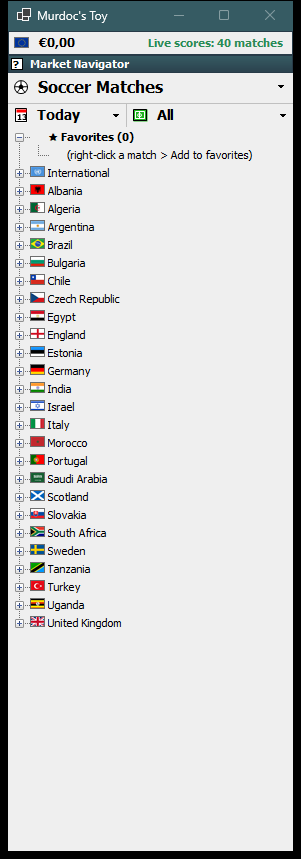
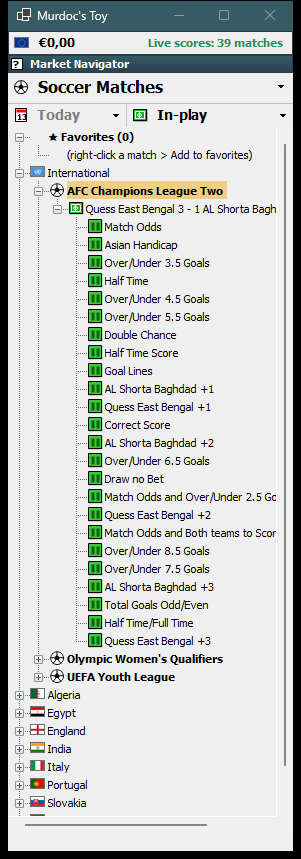
Classic: In-play moved to the All/In-play/Favorites dropdown and is the default; v0.4.2

diff --git a/src/MurdocsToy.Desktop/ClassicMainForm.cs b/src/MurdocsToy.Desktop/ClassicMainForm.cs
@@ -9,7 +9,8 @@ namespace MurdocsToy.Desktop;
 /// </summary>
 sealed class ClassicMainForm : Form
 {
-    enum When { Today, Tomorrow, Next2Days, InPlay }
+    enum When { Today, Tomorrow, Next2Days }
+    enum Scope { All, InPlay, Favorites }
 
     readonly AppHost _host;
     readonly BetfairClient _bf;
@@ -33,7 +34,7 @@ sealed class ClassicMainForm : Form
     Dictionary<string, string> _countryNames = new();
     Dictionary<string, string> _iso3 = new();
     When _when = When.Today;
-    bool _favoritesOnly;
+    Scope _scope = Scope.InPlay;     // opens on what is live right now
     string _balance = "", _currencyFlag = "";
     string _favSig = "";
     Font? _bold;
@@ -156,11 +157,11 @@ sealed class ClassicMainForm : Form
         using var edge = new Pen(Color.FromArgb(0xC0, 0xC0, 0xC0));
         g.DrawLine(edge, 0, 0, w, 0); g.DrawLine(edge, _scopeRect.X, 0, _scopeRect.X, _filters.Height);
         g.DrawImage(ClIcons.Calendar, 5, 4);
-        var whenText = _when switch { When.Today => "Today", When.Tomorrow => "Tomorrow", When.Next2Days => "2 days", _ => "In-play" };
-        TextRenderer.DrawText(g, whenText, Cl.Filter, new Point(26, 3), Color.Black);
+        var whenText = _when switch { When.Today => "Today", When.Tomorrow => "Tomorrow", _ => "2 days" };
+        TextRenderer.DrawText(g, whenText, Cl.Filter, new Point(26, 3), _scope == Scope.InPlay ? Color.Gray : Color.Black);   // the date filter does not apply to in-play
         Arrow(g, _whenRect.Right - 10, 12);
         g.DrawImage(ClIcons.Pitch, _scopeRect.X + 6, 4);
-        TextRenderer.DrawText(g, _favoritesOnly ? "Favorites" : "All", Cl.Filter, new Point(_scopeRect.X + 28, 3), Color.Black);
+        TextRenderer.DrawText(g, _scope switch { Scope.InPlay => "In-play", Scope.Favorites => "Favorites", _ => "All" }, Cl.Filter, new Point(_scopeRect.X + 28, 3), Color.Black);
         Arrow(g, w - 10, 12);
     }
 
@@ -169,20 +170,20 @@ sealed class ClassicMainForm : Form
         var menu = new ContextMenuStrip();
         if (_whenRect.Contains(e.Location))
         {
-            foreach (var (w, label) in new[] { (When.Today, "Today"), (When.Tomorrow, "Tomorrow"), (When.Next2Days, "Next 2 days"), (When.InPlay, "In-play") })
+            foreach (var (w, label) in new[] { (When.Today, "Today"), (When.Tomorrow, "Tomorrow"), (When.Next2Days, "Next 2 days") })
             {
                 var item = new ToolStripMenuItem(label) { Checked = _when == w };
-                item.Click += async (_, _) => { _when = w; _filters.Invalidate(); await LoadTree(); };
+                item.Click += async (_, _) => { _when = w; if (_scope == Scope.InPlay) _scope = Scope.All; _filters.Invalidate(); await LoadTree(); };
                 menu.Items.Add(item);
             }
             menu.Show(_filters, new Point(_whenRect.X, _whenRect.Bottom));
         }
         else if (_scopeRect.Contains(e.Location))
         {
-            foreach (var (fav, label) in new[] { (false, "All"), (true, "Favorites") })
+            foreach (var (sc, label) in new[] { (Scope.All, "All"), (Scope.InPlay, "In-play"), (Scope.Favorites, "Favorites") })
             {
-                var item = new ToolStripMenuItem(label) { Checked = _favoritesOnly == fav };
-                item.Click += async (_, _) => { _favoritesOnly = fav; _filters.Invalidate(); await LoadTree(); };
+                var item = new ToolStripMenuItem(label) { Checked = _scope == sc };
+                item.Click += async (_, _) => { _scope = sc; _filters.Invalidate(); await LoadTree(); };
                 menu.Items.Add(item);
             }
             menu.Show(_filters, new Point(_scopeRect.X, _scopeRect.Bottom));
@@ -300,10 +301,10 @@ sealed class ClassicMainForm : Form
         {
             _status.Text = "Loading...";
             _loads.Clear(); _tree.Nodes.Clear();
-            if (!_favoritesOnly)
+            if (_scope != Scope.Favorites)
             {
                 var (from, to) = Window();
-                var comps = await _bf.ListCompetitionsAsync(SportId, _when == When.InPlay, from, to);
+                var comps = await _bf.ListCompetitionsAsync(SportId, _scope == Scope.InPlay, from, to);
                 foreach (var grp in comps.GroupBy(c => Country(c).Name).OrderBy(g => g.Key == "International" ? "~" : g.Key))
                 {
                     var flag = Country(grp.First()).Flag;
@@ -315,7 +316,7 @@ sealed class ClassicMainForm : Form
             }
             SyncFavorites();
             _ = RefreshVolumes();
-            _status.Text = _tree.Nodes.Count <= 1 && !_favoritesOnly ? "Nothing found" : "";
+            _status.Text = _tree.Nodes.Count <= 1 && _scope != Scope.Favorites ? (_scope == Scope.InPlay ? "Nothing in-play right now" : "Nothing found") : "";
             RefreshLabels();
         }
         catch (Exception ex) { _status.Text = ex.Message; }
@@ -339,7 +340,7 @@ sealed class ClassicMainForm : Form
             if (n.Tag is CompetitionNode c)
             {
                 var (from, to) = Window();
-                kids.AddRange((await _bf.ListEventsAsync(SportId, c.Id, null, _when == When.InPlay, from, to)).Select(e => EventTreeNode(e, null)));
+                kids.AddRange((await _bf.ListEventsAsync(SportId, c.Id, null, _scope == Scope.InPlay, from, to)).Select(e => EventTreeNode(e, null)));
             }
             else if (n.Tag is EventNode e)
                 foreach (var m in await _bf.ListEventMarketsAsync(e.Id)) kids.Add(Node(m.MarketName, m, null, "market"));
@@ -418,6 +419,8 @@ sealed class ClassicMainForm : Form
     /// <summary>Opens the first match found (used by --smoke / --open-ladder).</summary>
     async Task OpenFirstLadder()
     {
+        if (_scope == Scope.InPlay && !_tree.Nodes.Cast<TreeNode>().Any(x => x.Tag is string t && t == "country"))
+        { _scope = Scope.All; _filters.Invalidate(); await LoadTree(); }     // nothing live right now: fall back to the day's matches
         TreeNode? node = _tree.Nodes.Cast<TreeNode>().FirstOrDefault(x => x.Tag is string t && t == "country");
         if (!string.IsNullOrEmpty(_search))
         {

diff --git a/README.md b/README.md
@@ -15,7 +15,7 @@ Choose one in the **Interface** box on the login form (Classic is the default; y
 
 ![Modern dark main window](docs/desktop.png)
 
-**Classic**: a dense, traditional trading layout. A narrow navigator window with the account balance, a sport header, *Today / Tomorrow / Next 2 days / In-play* and *All / Favorites* filters, and a **country > competition > match > market** tree with flags. Each match opens in a trading window with a **ladder per runner side by side** (name and stake header, position panel, bar-scale strip, summary row, price rows with a grey price column, pink *lay* and blue *back* columns, your own orders, traded volume, a green/red depth bar and order boxes) next to a slate **tools panel**: clock, book percentages, back and lay staking (lay can be stake or liability), bet persistence, *Green up all*, *Cancel all*, market information and a ladder selector. The window title shows the matched amount, e.g. `Viking v Bayern Munich - Match Odds   €233 658`.
+**Classic**: a dense, traditional trading layout. A narrow navigator window with the account balance, a sport header, a date filter (*Today / Tomorrow / Next 2 days*) and a scope filter (*All / In-play / Favorites*, opening on In-play), and a **country > competition > match > market** tree with flags. Each match opens in a trading window with a **ladder per runner side by side** (name and stake header, position panel, bar-scale strip, summary row, price rows with a grey price column, pink *lay* and blue *back* columns, your own orders, traded volume, a green/red depth bar and order boxes) next to a slate **tools panel**: clock, book percentages, back and lay staking (lay can be stake or liability), bet persistence, *Green up all*, *Cancel all*, market information and a ladder selector. The window title shows the matched amount, e.g. `Viking v Bayern Munich - Match Odds   €233 658`.
 
 ![Classic navigator](docs/classic-main.png)
 
@@ -51,7 +51,7 @@ Choose one in the **Interface** box on the login form (Classic is the default; y
 
 ## Install (Windows)
 
-Download `MurdocsToy-Setup-0.4.1.exe` from the [Releases](../../releases) page and run it. It needs no .NET install, adds a Start Menu entry and an optional desktop shortcut, and can be removed from *Apps & features*. Windows SmartScreen may warn because the installer is unsigned.
+Download `MurdocsToy-Setup-0.4.2.exe` from the [Releases](../../releases) page and run it. It needs no .NET install, adds a Start Menu entry and an optional desktop shortcut, and can be removed from *Apps & features*. Windows SmartScreen may warn because the installer is unsigned.
 
 On first launch enter your Betfair username, password and application key, and pick an interface.
 
@@ -60,7 +60,7 @@ To build the installer yourself:
 ```bash
 dotnet publish src/MurdocsToy.Desktop -c Release -r win-x64 --self-contained true \
   -p:PublishSingleFile=true -p:IncludeNativeLibrariesForSelfExtract=true -o dist/app
-ISCC.exe installer/MurdocsToy.iss      # needs Inno Setup 6 -> dist/MurdocsToy-Setup-0.4.1.exe
+ISCC.exe installer/MurdocsToy.iss      # needs Inno Setup 6 -> dist/MurdocsToy-Setup-0.4.2.exe
 ```
 
 ## Configure
